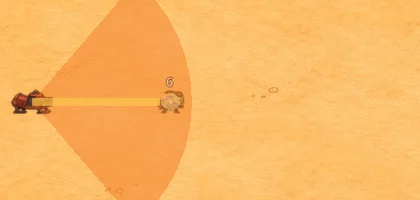
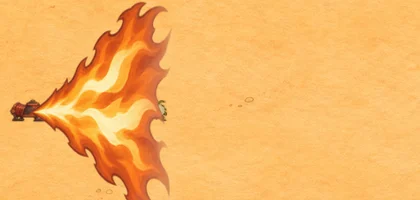
Show animated turret attacks in the 1.0 notes

diff --git a/roguelike/index.html b/roguelike/index.html
@@ -25,41 +25,56 @@
       <h3>Ağaç Tareti</h3>
       <p class="meta">Taret Fidanı · 52 malzeme · 200 menzil</p>
       <p>Kütüğe bağlı yay ince bir tahta ok fırlatır. Taret Fidanı kırılan her ağacın yerine bu tareti kurar. Taret o dalga boyunca kalır ve ağaç normal ganimetini bırakır.</p>
-      <img class="turret-attack" src="media/taret-tree-atis.webp" alt="Havada ince tahta ok ve koyu renkli izi" loading="lazy">
+      <picture class="turret-preview">
+        <source media="(prefers-reduced-motion: no-preference)" srcset="media/taret-tree-animasyon.webp" type="image/webp">
+        <img class="turret-attack" src="media/taret-tree-atis.webp" alt="Havada ince tahta ok ve koyu renkli izi" loading="lazy">
+      </picture>
     </article>
     <article class="boss turret-card">
       <img class="turret-art" src="media/item-114.webp" alt="" width="96" height="96" loading="lazy">
       <h3>I · Tohum Tareti</h3>
       <p class="meta">20 malzeme · 200 menzil</p>
       <p>Hazneden tek hedefe altın renkli tohum atar. Taban menzili 420’den 200’e indi. Her +10 Menzil, Kademe I ve Ağaç Tareti için +15 menzil kazandırır.</p>
-      <img class="turret-attack" src="media/taret-seed-atis.webp" alt="Altın renkli tohum mermisi ve izi" loading="lazy">
+      <picture class="turret-preview">
+        <source media="(prefers-reduced-motion: no-preference)" srcset="media/taret-seed-animasyon.webp" type="image/webp">
+        <img class="turret-attack" src="media/taret-seed-atis.webp" alt="Altın renkli tohum mermisi ve izi" loading="lazy">
+      </picture>
     </article>
     <article class="boss turret-card">
       <img class="turret-art" src="media/item-115.webp" alt="" width="96" height="96" loading="lazy">
       <h3>II · Alev Tareti</h3>
       <p class="meta">32 malzeme · 165 menzil</p>
       <p>Fırın, yakınındaki düşmanları geniş bir turuncu alev konisiyle topluca vurur. Koninin içindeki birden fazla hedef aynı anda hasar alabilir.</p>
-      <img class="turret-attack" src="media/taret-flame-atis.webp" alt="Taretten çıkan geniş turuncu alev konisi" loading="lazy">
+      <picture class="turret-preview">
+        <source media="(prefers-reduced-motion: no-preference)" srcset="media/taret-flame-animasyon.webp" type="image/webp">
+        <img class="turret-attack" src="media/taret-flame-atis.webp" alt="Taretten çıkan geniş turuncu alev konisi" loading="lazy">
+      </picture>
     </article>
     <article class="boss turret-card">
       <img class="turret-art" src="media/item-116.webp" alt="" width="96" height="96" loading="lazy">
       <h3>III · Lazer Tareti</h3>
       <p class="meta">52 malzeme · 420 menzil</p>
       <p>Prizma, ateşlediği anda menzilin sonuna ulaşan mor bir ışın çıkarır. Işın hattına giren birden fazla hedefi deler.</p>
-      <img class="turret-attack" src="media/taret-laser-atis.webp" alt="Prizmadan çıkan mor lazer ışını" loading="lazy">
+      <picture class="turret-preview">
+        <source media="(prefers-reduced-motion: no-preference)" srcset="media/taret-laser-animasyon.webp" type="image/webp">
+        <img class="turret-attack" src="media/taret-laser-atis.webp" alt="Prizmadan çıkan mor lazer ışını" loading="lazy">
+      </picture>
     </article>
     <article class="boss turret-card">
       <img class="turret-art" src="media/item-117.webp" alt="" width="96" height="96" loading="lazy">
       <h3>IV · Patlayıcı Taret</h3>
       <p class="meta">90 malzeme · 420 menzil</p>
       <p>Mancınık yavaş, fitilli bir bomba fırlatır. Bomba ilk temasta veya menzilinin sonunda patlar ve çevredeki hedeflere hasar verir.</p>
-      <img class="turret-attack" src="media/taret-bomb-atis.webp" alt="Havada ilerleyen kırmızı fitilli bomba" loading="lazy">
+      <picture class="turret-preview">
+        <source media="(prefers-reduced-motion: no-preference)" srcset="media/taret-bomb-animasyon.webp" type="image/webp">
+        <img class="turret-attack" src="media/taret-bomb-atis.webp" alt="Havada ilerleyen kırmızı fitilli bomba" loading="lazy">
+      </picture>
     </article>
   </div>
   <p class="turret-release-note">Kahramanın ve giydiği ekipman sağa sola hareket ederken onunla birlikte döner. Durduğunda veya dikey yürüdüğünde son baktığı yön korunur.</p>
 </section>
 <section id="yenilikler" class="feature"><div><div class="eyebrow light">EŞYA KATALOĞUNDAN</div><h2>53 lanetli eşya</h2><p>Cam Tohum hasarı ikiye katlar ve azami canı 1’e indirir. Ödünç Bahar ölümcül darbeden sonra bir elit veya boss öldürmek için 8 saniye verir.</p><a href="#esyalar" id="latest-items">Lanetli eşyalara bak</a></div><div class="feature-icons"><img src="media/item-103.webp" alt="Cam Tohum"><img src="media/item-53.webp" alt="Çatlak Ceviz"><img src="media/item-102.webp" alt="Ödünç Bahar"></div></section>
-<section class="history"><div class="eyebrow">GÜNCELLEME GEÇMİŞİ</div><div class="history-row"><time datetime="2026-11-23">1.0</time><p>Satın alınabilir dört taret, Taret Fidanı, saldırı görselleri ve kahramanın yatay dönüşü.</p></div><div class="history-row"><time datetime="2026-11-23">23 KASIM</time><p>Lanetli eşyalar ve eşya ikonları, dükkânda eşya deneme ve silah eşleştirme, Kiler Kraliçesi ve tahıl taşıyan işçileri.</p></div><div class="history-row"><time datetime="2026-11-22">22 KASIM</time><p>Kestane Şövalyesi ve Bataklık Nilüferi, boss saldırı pozları, iyileşme ve öfke mekanikleri.</p></div><div class="history-row"><time datetime="2026-11-19">19 KASIM</time><p>Rün dalları ve yol kesişimleri, final dalgasında iki boss.</p></div></section>
+<section class="history"><div class="eyebrow">GÜNCELLEME GEÇMİŞİ</div><div class="history-row"><time datetime="2026-11-23">1.0</time><p>Satın alınabilir dört taret, Taret Fidanı, dörder karelik taret saldırıları ve kahramanın yatay dönüşü.</p></div><div class="history-row"><time datetime="2026-11-23">23 KASIM</time><p>Lanetli eşyalar ve eşya ikonları, dükkânda eşya deneme ve silah eşleştirme, Kiler Kraliçesi ve tahıl taşıyan işçileri.</p></div><div class="history-row"><time datetime="2026-11-22">22 KASIM</time><p>Kestane Şövalyesi ve Bataklık Nilüferi, boss saldırı pozları, iyileşme ve öfke mekanikleri.</p></div><div class="history-row"><time datetime="2026-11-19">19 KASIM</time><p>Rün dalları ve yol kesişimleri, final dalgasında iki boss.</p></div></section>
 <section id="esyalar" class="section"><div class="section-head"><div><div class="eyebrow">EŞYA KATALOĞU</div><h2>Eşyalar<span class="dot">.</span></h2><p>Dükkân ve sandık eşyaları. Fiyatlar taban malzeme bedelidir.</p></div><span class="count" id="item-count" aria-live="polite">119 EŞYA</span></div><div class="controls"><label class="search"><span aria-hidden="true">⌕</span><span class="sr-only">Eşya ara</span><input id="search" type="search" placeholder="Eşya veya etki ara" autocomplete="off"></label><div class="filters" role="group" aria-label="Eşya türü"><button class="active" data-filter="all" aria-pressed="true">Tümü</button><button data-filter="normal" aria-pressed="false">Diğer eşyalar</button><button data-filter="cursed" aria-pressed="false">Lanetli</button><button data-filter="can" aria-pressed="false">Can</button><button data-filter="silah" aria-pressed="false">Silah</button><button data-filter="ekonomi" aria-pressed="false">Ekonomi</button><button data-filter="hareket" aria-pressed="false">Hareket</button><button data-filter="düşman" aria-pressed="false">Düşman</button></div></div><p id="no-results" class="empty" hidden>Bu aramayla eşleşen eşya bulunamadı.</p><div id="item-grid" class="item-grid"></div></section>
 <section id="karakterler" class="section alternate"><div class="section-head"><div><div class="eyebrow">OYUNCU KADROSU</div><h2>Karakterler<span class="dot">.</span></h2><p>Her karakterin başlangıç özellikleri ve bedelleri.</p></div><span class="count">11 KARAKTER</span></div><div id="hero-grid" class="hero-grid"></div></section>
 <section id="bosslar" class="section"><div class="section-head"><div><div class="eyebrow">DALGA KARŞILAŞMALARI</div><h2>Bosslar<span class="dot">.</span></h2><p>10. ve 15. dalgada bir, 20. dalgada iki farklı boss gelir.</p></div><span class="count">10 BOSS</span></div><div id="boss-grid" class="boss-grid"></div></section>

diff --git a/roguelike/style.css b/roguelike/style.css
@@ -560,14 +560,20 @@ footer a {
 .turret-card p:last-of-type {
   margin-bottom:16px;
 }
+.turret-preview {
+  display:block;
+  width:100%;
+  margin:auto 0 0;
+}
 .turret-card .turret-attack {
+  display:block;
   float:none;
   width:100%;
   height:auto;
   aspect-ratio:2.1;
   border-radius:9px;
   object-fit:cover;
-  margin:auto 0 0;
+  margin:0;
 }
 .turret-release-note {
   font-size:14px;
